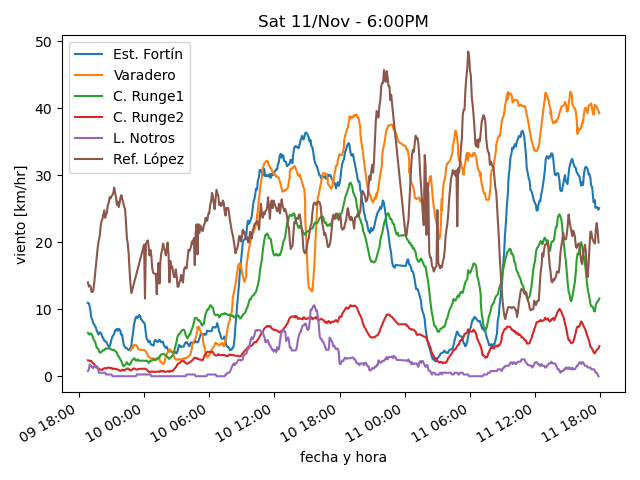
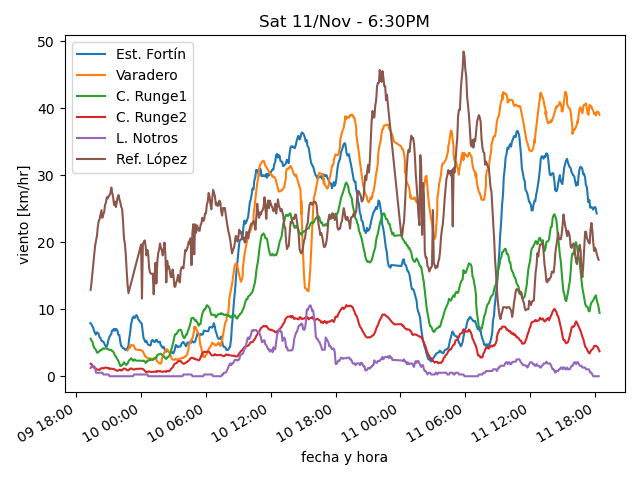
actualiza datos

diff --git a/estaciones/estacion4.html b/estaciones/estacion4.html
@@ -18,47 +18,47 @@
     </tr>
     <tr>
      <td class="stats_data">
-      5:54PM
+      6:24PM
      </td>
     </tr>
     <tr>
      <td class="stats_data">
-      0.9⁰C
+      0.8⁰C
      </td>
     </tr>
     <tr>
      <td class="stats_data">
-      0.4⁰C
+      -0.3⁰C
      </td>
     </tr>
     <tr>
      <td class="stats_data">
-      96.3%
+      92.7%
      </td>
     </tr>
     <tr>
      <td class="stats_data">
-      1007.52hPa
+      1008.43hPa
      </td>
     </tr>
     <tr>
      <td class="stats_data">
-      3.4/6.1 km/hr SSW
+      1.6/2.8 km/hr SSW
      </td>
     </tr>
     <tr>
      <td class="stats_data">
-      5.79 / 4.19 mm
+      6.3 / 0.0 mm
      </td>
     </tr>
     <tr>
      <td class="stats_data">
-      1.0
+      0.0
      </td>
     </tr>
     <tr>
      <td class="stats_data">
-      142.9 W/m²
+      35.8 W/m²
      </td>
     </tr>
    </tbody>

diff --git a/estaciones/estacion3.html b/estaciones/estacion3.html
@@ -18,7 +18,7 @@
     </tr>
     <tr>
      <td class="stats_data">
-      5:54PM
+      6:24PM
      </td>
     </tr>
     <tr>
@@ -28,37 +28,37 @@
     </tr>
     <tr>
      <td class="stats_data">
-      0.2⁰C
+      -0.1⁰C
      </td>
     </tr>
     <tr>
      <td class="stats_data">
-      99.0%
+      96.5%
      </td>
     </tr>
     <tr>
      <td class="stats_data">
-      998.82hPa
+      999.73hPa
      </td>
     </tr>
     <tr>
      <td class="stats_data">
-      9.4/13.2 km/hr NW
+      5.6/7.4 km/hr W
      </td>
     </tr>
     <tr>
      <td class="stats_data">
-      5.59 / 3.0 mm
+      6.1 / 1.8 mm
      </td>
     </tr>
     <tr>
      <td class="stats_data">
-      2.0
+      0.0
      </td>
     </tr>
     <tr>
      <td class="stats_data">
-      173.8 W/m²
+      35.5 W/m²
      </td>
     </tr>
    </tbody>

diff --git a/estaciones/estacion2.html b/estaciones/estacion2.html
@@ -18,32 +18,32 @@
     </tr>
     <tr>
      <td class="stats_data">
-      5:54PM
+      6:24PM
      </td>
     </tr>
     <tr>
      <td class="stats_data">
-      2.5⁰C
+      2.9⁰C
      </td>
     </tr>
     <tr>
      <td class="stats_data">
-      2.2⁰C
+      1.6⁰C
      </td>
     </tr>
     <tr>
      <td class="stats_data">
-      97.8%
+      91.2%
      </td>
     </tr>
     <tr>
      <td class="stats_data">
-      1013.72hPa
+      1014.53hPa
      </td>
     </tr>
     <tr>
      <td class="stats_data">
-      32.5/37.9 km/hr NW
+      29.9/37.0 km/hr NW
      </td>
     </tr>
     <tr>
@@ -53,12 +53,12 @@
     </tr>
     <tr>
      <td class="stats_data">
-      4.0
+      0.0
      </td>
     </tr>
     <tr>
      <td class="stats_data">
-      472.3 W/m²
+      48.6 W/m²
      </td>
     </tr>
    </tbody>

diff --git a/estaciones/estacion6.html b/estaciones/estacion6.html
@@ -18,17 +18,17 @@
     </tr>
     <tr>
      <td class="stats_data">
-      5:50PM
+      6:20PM
      </td>
     </tr>
     <tr>
      <td class="stats_data">
-      -4.9⁰C
+      -4.8⁰C
      </td>
     </tr>
     <tr>
      <td class="stats_data">
-      -5.6⁰C
+      -5.5⁰C
      </td>
     </tr>
     <tr>
@@ -38,12 +38,12 @@
     </tr>
     <tr>
      <td class="stats_data">
-      1007.62hPa
+      1008.57hPa
      </td>
     </tr>
     <tr>
      <td class="stats_data">
-      6.4/14.5 km/hr SE
+      4.8/9.7 km/hr ESE
      </td>
     </tr>
     <tr>
@@ -58,7 +58,7 @@
     </tr>
     <tr>
      <td class="stats_data">
-      881.0 W/m²
+      879.0 W/m²
      </td>
     </tr>
    </tbody>

diff --git a/estaciones/estacion1.html b/estaciones/estacion1.html
@@ -18,12 +18,12 @@
     </tr>
     <tr>
      <td class="stats_data">
-      5:53PM
+      6:09PM
      </td>
     </tr>
     <tr>
      <td class="stats_data">
-      2.3⁰C
+      2.1⁰C
      </td>
     </tr>
     <tr>
@@ -33,17 +33,17 @@
     </tr>
     <tr>
      <td class="stats_data">
-      79.5%
+      80.3%
      </td>
     </tr>
     <tr>
      <td class="stats_data">
-      1008.13hPa
+      1008.47hPa
      </td>
     </tr>
     <tr>
      <td class="stats_data">
-      15.4/21.7 km/hr W
+      7.5/19.3 km/hr WSW
      </td>
     </tr>
     <tr>
@@ -58,7 +58,7 @@
     </tr>
     <tr>
      <td class="stats_data">
-      128.0 W/m²
+      160.0 W/m²
      </td>
     </tr>
    </tbody>

diff --git a/estaciones/estacion5.html b/estaciones/estacion5.html
@@ -18,27 +18,27 @@
     </tr>
     <tr>
      <td class="stats_data">
-      5:50PM
+      6:20PM
      </td>
     </tr>
     <tr>
      <td class="stats_data">
-      2.3⁰C
+      1.7⁰C
      </td>
     </tr>
     <tr>
      <td class="stats_data">
-      1.3⁰C
+      0.3⁰C
      </td>
     </tr>
     <tr>
      <td class="stats_data">
-      94.0%
+      91.0%
      </td>
     </tr>
     <tr>
      <td class="stats_data">
-      1011.14hPa
+      1012.5hPa
      </td>
     </tr>
     <tr>
@@ -48,7 +48,7 @@
     </tr>
     <tr>
      <td class="stats_data">
-      7.11 / 0.76 mm
+      7.37 / 0.76 mm
      </td>
     </tr>
     <tr>
